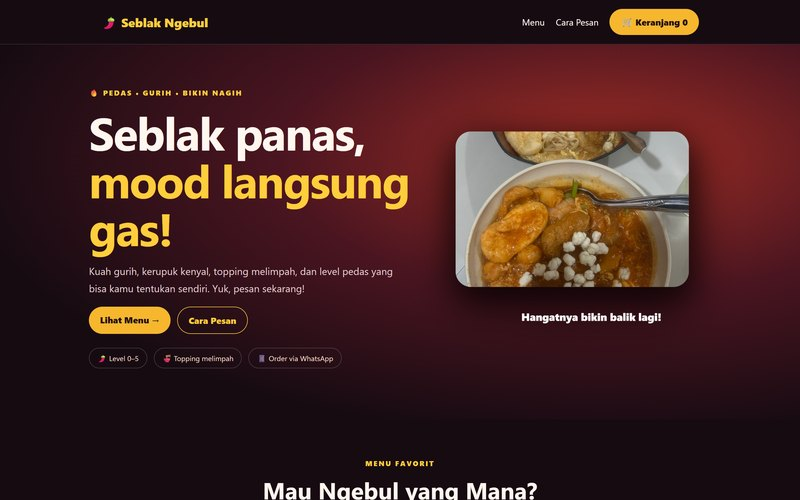
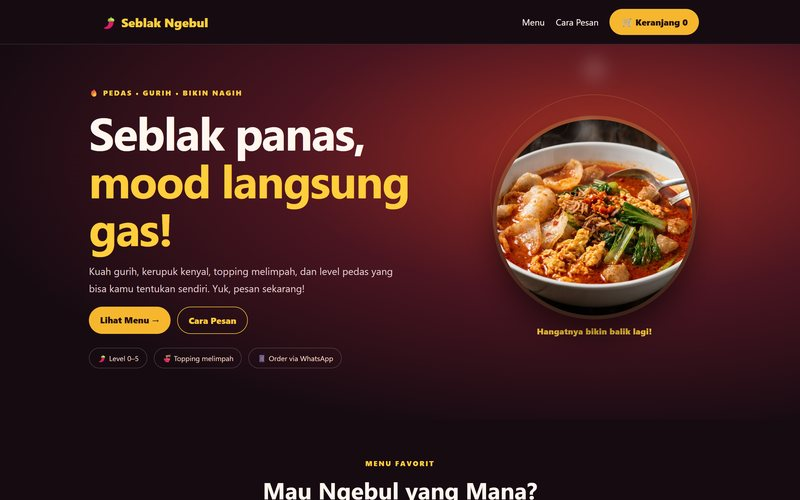
chore(contoh-karya): perbarui screenshot demo (hero bulat Seblak, Kopi Senja, Terra)
- Ketiga thumbnail diambil ulang dari situs live versi terbaru, render 2x lalu diperkecil ke 800x500 agar tajam
- Seblak Ngebul sekarang menampilkan hero foto bulat (sebelumnya masih bingkai kotak lama)
- Cache-busting ?v=2 agar Cloudflare tidak menyajikan gambar lama

Changed region(s): [[0.5312, 0.21, 0.9062, 0.69]]

diff --git a/index.html b/index.html
@@ -33,9 +33,9 @@ fbq('track', 'PageView');
     <p>Klik, coba langsung seperti pelanggan kamu nanti.</p>
   </div>
   <div class="demo-grid">
-<a class="demo-card" href="https://kopi-senja.brianbraken123.workers.dev/" target="_blank" rel="noopener noreferrer" aria-label="Lihat demo landing page Kopi Senja (buka tab baru)"><div class="demo-thumb"><span class="demo-thumb-name" aria-hidden="true">Kopi Senja</span><img src="img/demo-kopi-senja.jpg" alt="Pratinjau landing page Kopi Senja" width="800" height="500" loading="lazy" decoding="async" onerror="this.remove()"></div><div class="demo-body"><p class="demo-label">Coffee Shop</p><h3>Kopi Senja</h3><p class="demo-desc">Landing page gelap elegan untuk coffee shop: menu, suasana, dan tombol pesan.</p><span class="demo-link">Lihat Demo →</span></div></a>
-<a class="demo-card" href="https://teracaffe-m5.brianbraken123.workers.dev/" target="_blank" rel="noopener noreferrer" aria-label="Lihat demo landing page Terra Cafe & Eatery (buka tab baru)"><div class="demo-thumb"><span class="demo-thumb-name" aria-hidden="true">Terra Cafe & Eatery</span><img src="img/demo-terra-cafe.jpg" alt="Pratinjau landing page Terra Cafe & Eatery" width="800" height="500" loading="lazy" decoding="async" onerror="this.remove()"></div><div class="demo-body"><p class="demo-label">Cafe & Resto</p><h3>Terra Cafe & Eatery</h3><p class="demo-desc">Menu lengkap dengan foto, pesan lewat WhatsApp, dan logo 3D yang ikut gerak kursor.</p><span class="demo-link">Lihat Demo →</span></div></a>
-<a class="demo-card" href="https://seblak-ngebul-demo.brianbraken123.workers.dev/" target="_blank" rel="noopener noreferrer" aria-label="Lihat demo landing page Seblak Ngebul (buka tab baru)"><div class="demo-thumb"><span class="demo-thumb-name" aria-hidden="true">Seblak Ngebul</span><img src="img/demo-seblak-ngebul.jpg" alt="Pratinjau landing page Seblak Ngebul" width="800" height="500" loading="lazy" decoding="async" onerror="this.remove()"></div><div class="demo-body"><p class="demo-label">Kuliner UMKM</p><h3>Seblak Ngebul</h3><p class="demo-desc">Landing page promo untuk jualan seblak: menu, harga, dan tombol order.</p><span class="demo-link">Lihat Demo →</span></div></a>
+<a class="demo-card" href="https://kopi-senja.brianbraken123.workers.dev/" target="_blank" rel="noopener noreferrer" aria-label="Lihat demo landing page Kopi Senja (buka tab baru)"><div class="demo-thumb"><span class="demo-thumb-name" aria-hidden="true">Kopi Senja</span><img src="img/demo-kopi-senja.jpg?v=2" alt="Pratinjau landing page Kopi Senja" width="800" height="500" loading="lazy" decoding="async" onerror="this.remove()"></div><div class="demo-body"><p class="demo-label">Coffee Shop</p><h3>Kopi Senja</h3><p class="demo-desc">Landing page gelap elegan untuk coffee shop: menu, suasana, dan tombol pesan.</p><span class="demo-link">Lihat Demo →</span></div></a>
+<a class="demo-card" href="https://teracaffe-m5.brianbraken123.workers.dev/" target="_blank" rel="noopener noreferrer" aria-label="Lihat demo landing page Terra Cafe & Eatery (buka tab baru)"><div class="demo-thumb"><span class="demo-thumb-name" aria-hidden="true">Terra Cafe & Eatery</span><img src="img/demo-terra-cafe.jpg?v=2" alt="Pratinjau landing page Terra Cafe & Eatery" width="800" height="500" loading="lazy" decoding="async" onerror="this.remove()"></div><div class="demo-body"><p class="demo-label">Cafe & Resto</p><h3>Terra Cafe & Eatery</h3><p class="demo-desc">Menu lengkap dengan foto, pesan lewat WhatsApp, dan logo 3D yang ikut gerak kursor.</p><span class="demo-link">Lihat Demo →</span></div></a>
+<a class="demo-card" href="https://seblak-ngebul-demo.brianbraken123.workers.dev/" target="_blank" rel="noopener noreferrer" aria-label="Lihat demo landing page Seblak Ngebul (buka tab baru)"><div class="demo-thumb"><span class="demo-thumb-name" aria-hidden="true">Seblak Ngebul</span><img src="img/demo-seblak-ngebul.jpg?v=2" alt="Pratinjau landing page Seblak Ngebul" width="800" height="500" loading="lazy" decoding="async" onerror="this.remove()"></div><div class="demo-body"><p class="demo-label">Kuliner UMKM</p><h3>Seblak Ngebul</h3><p class="demo-desc">Landing page promo untuk jualan seblak: menu, harga, dan tombol order.</p><span class="demo-link">Lihat Demo →</span></div></a>
   </div>
   <div class="demo-cta">
     <p>Mau landing page seperti ini untuk usahamu?</p>
